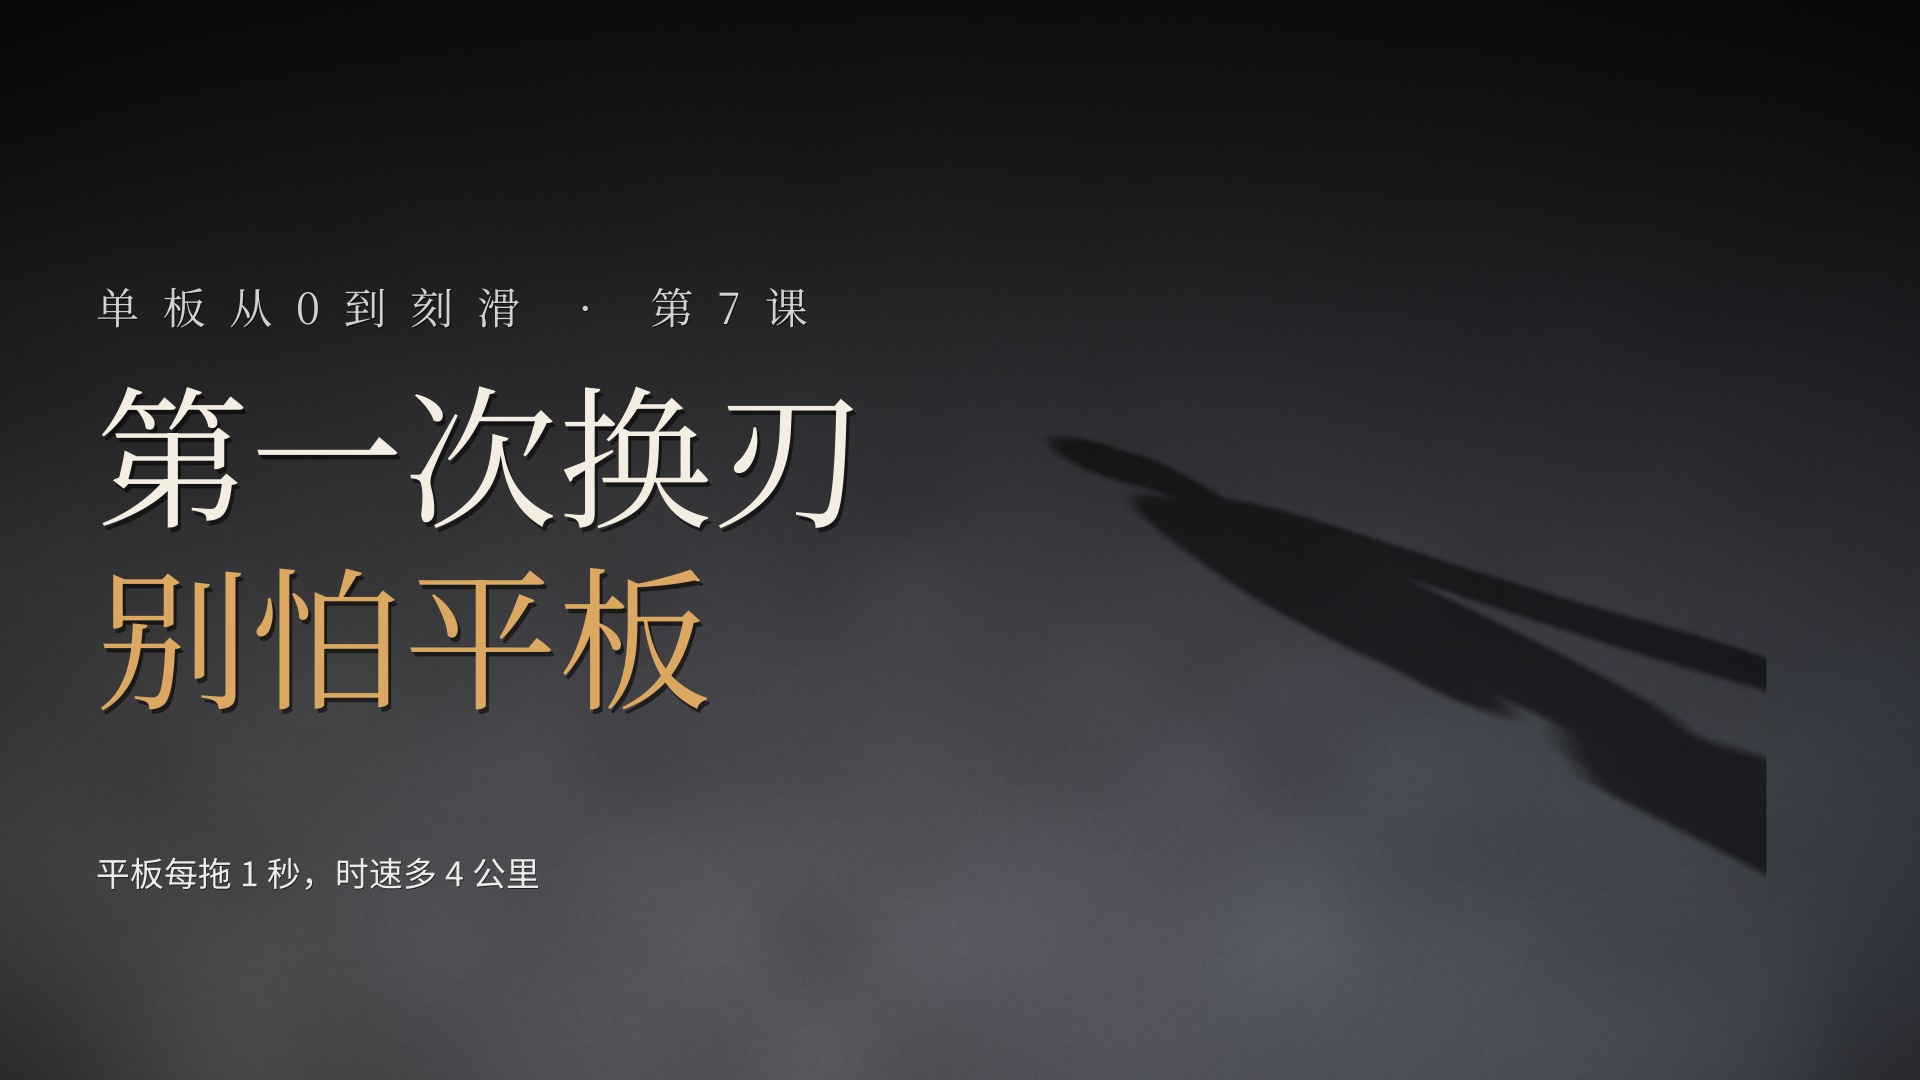
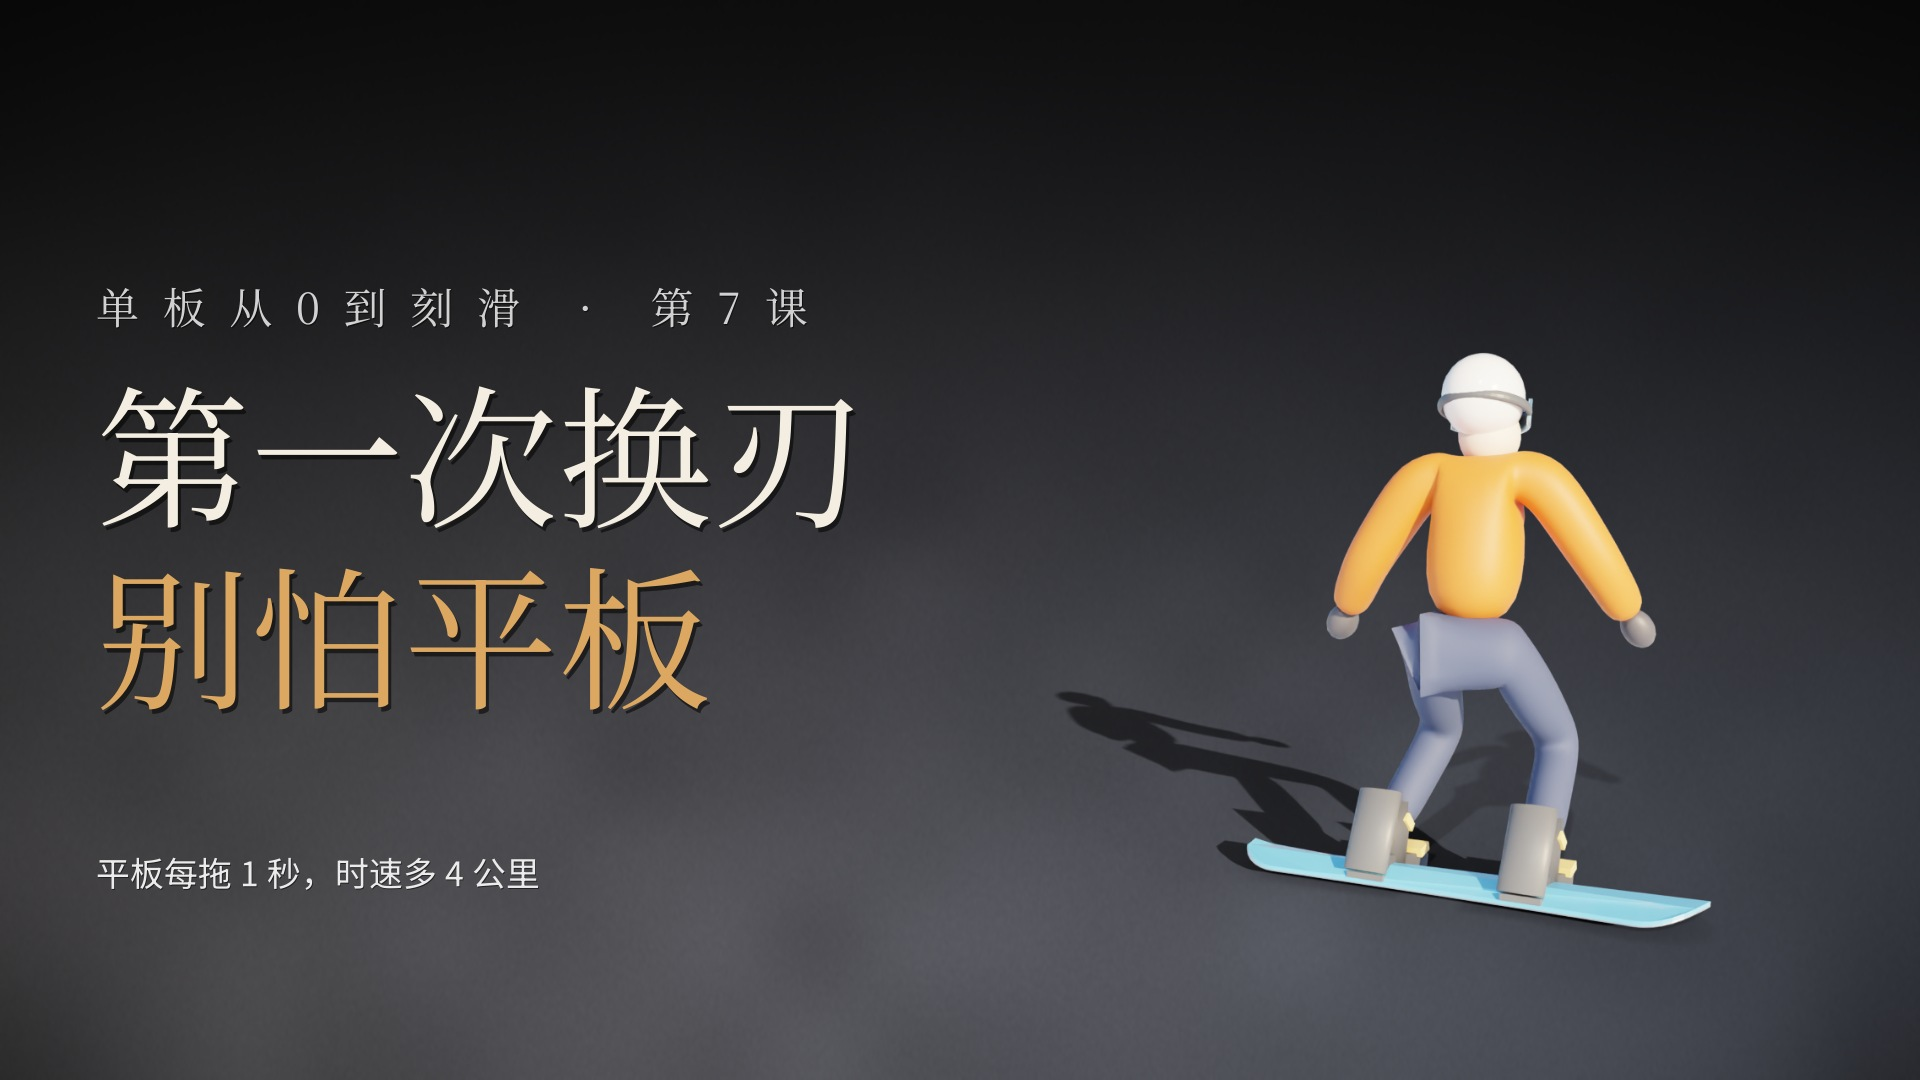
封面人物渲染跟上顺坡位置（gy）；第7课封面重出
Claude-Session: https://claude.ai/code/session_011nxU6Xqnvk7sEPthDPKna4

Changed region(s): [[0.5312, 0.3056, 0.9375, 0.8556]]

diff --git a/video/zero2carve-lib/cover3d.py b/video/zero2carve-lib/cover3d.py
@@ -17,7 +17,7 @@ S = Scene(1200, 1200, samples=int(os.environ.get("SAMPLES", 24)), transparent=Tr
 P = interp(ep.PERF[C["perf"]], C["p"])
 P["slope"] = 0.0; P["trail"] = 0.0      # 封面不要坡和雪痕，人物摆正
 J = S.place(P)
-g = Vector((P["gx"], 0, 0))
+g = Vector((P["gx"], P["gy"], 0))     # 人在坡上的位置（x 横向、y 顺坡）
 pos, tgt, lens = C["cam"]
 S.camera(Vector(pos) + g, Vector(tgt) + g, lens)
 meta = {}
